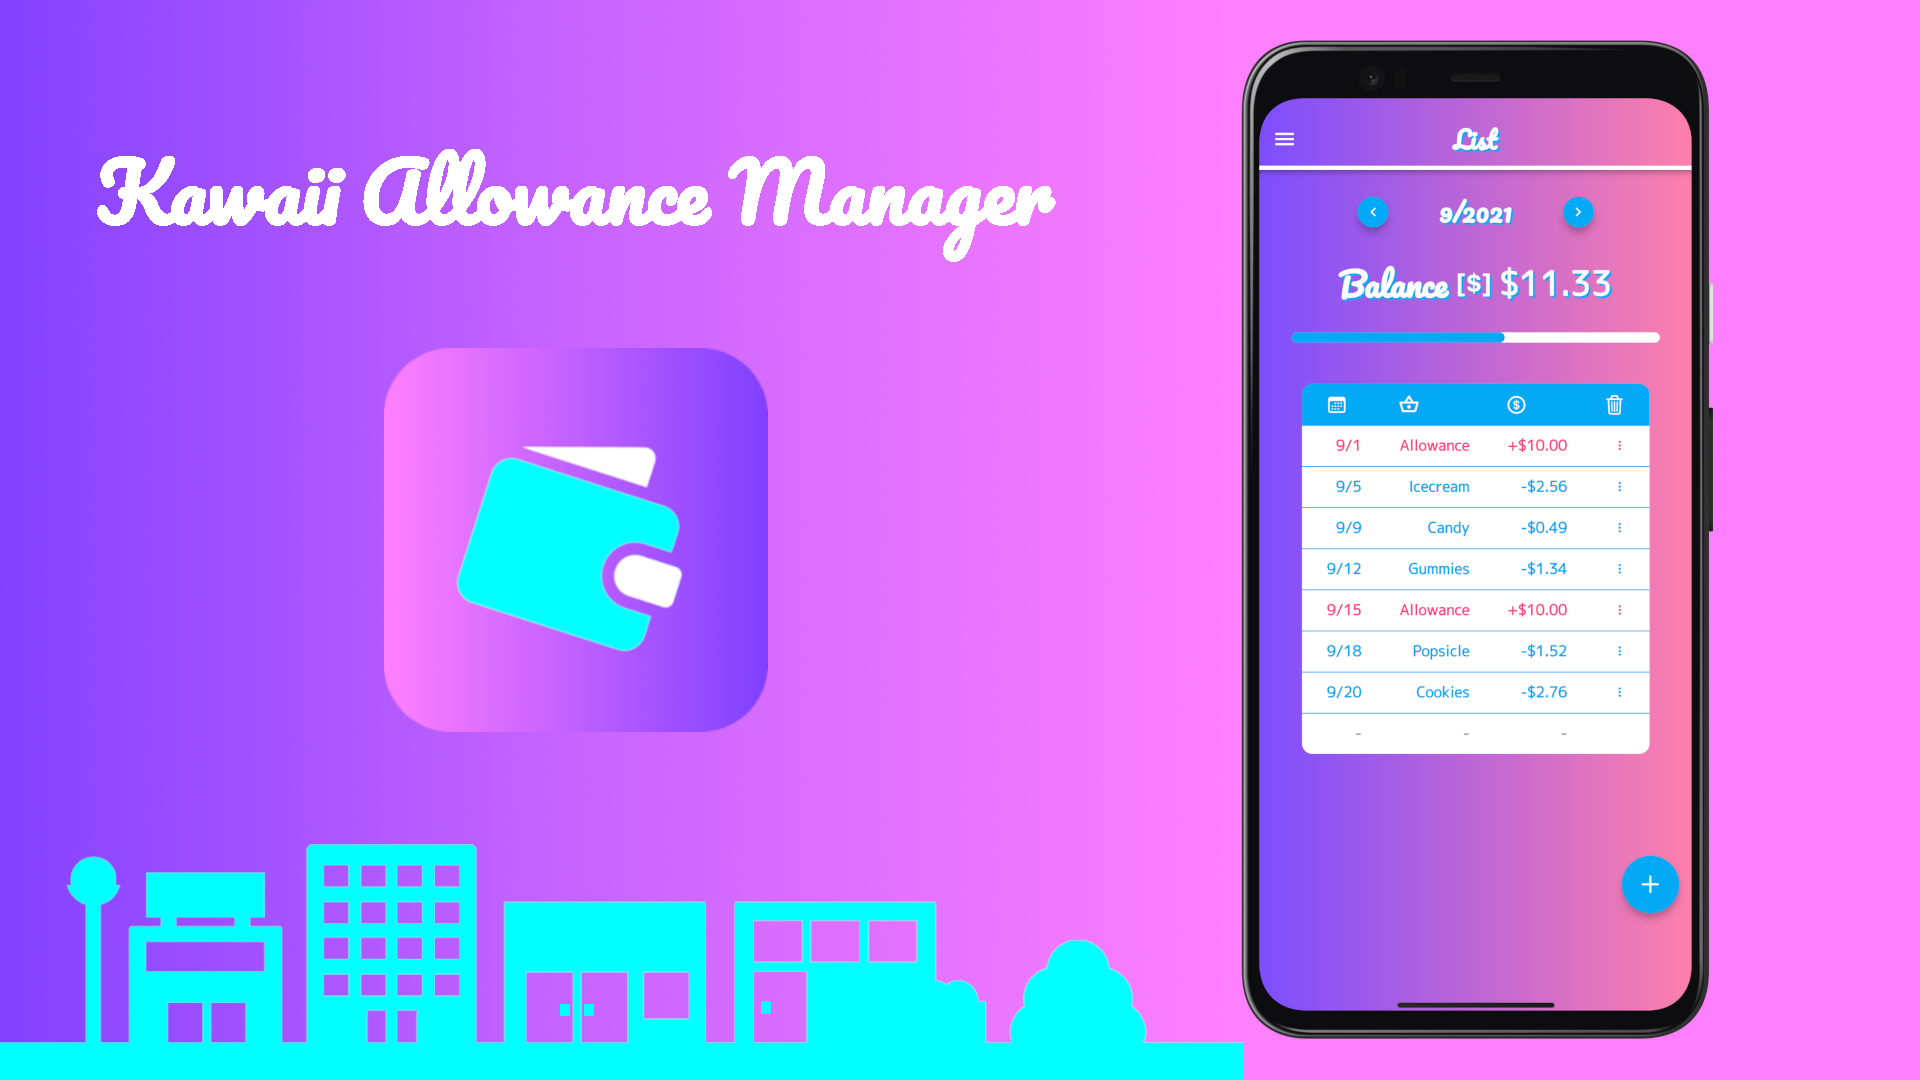
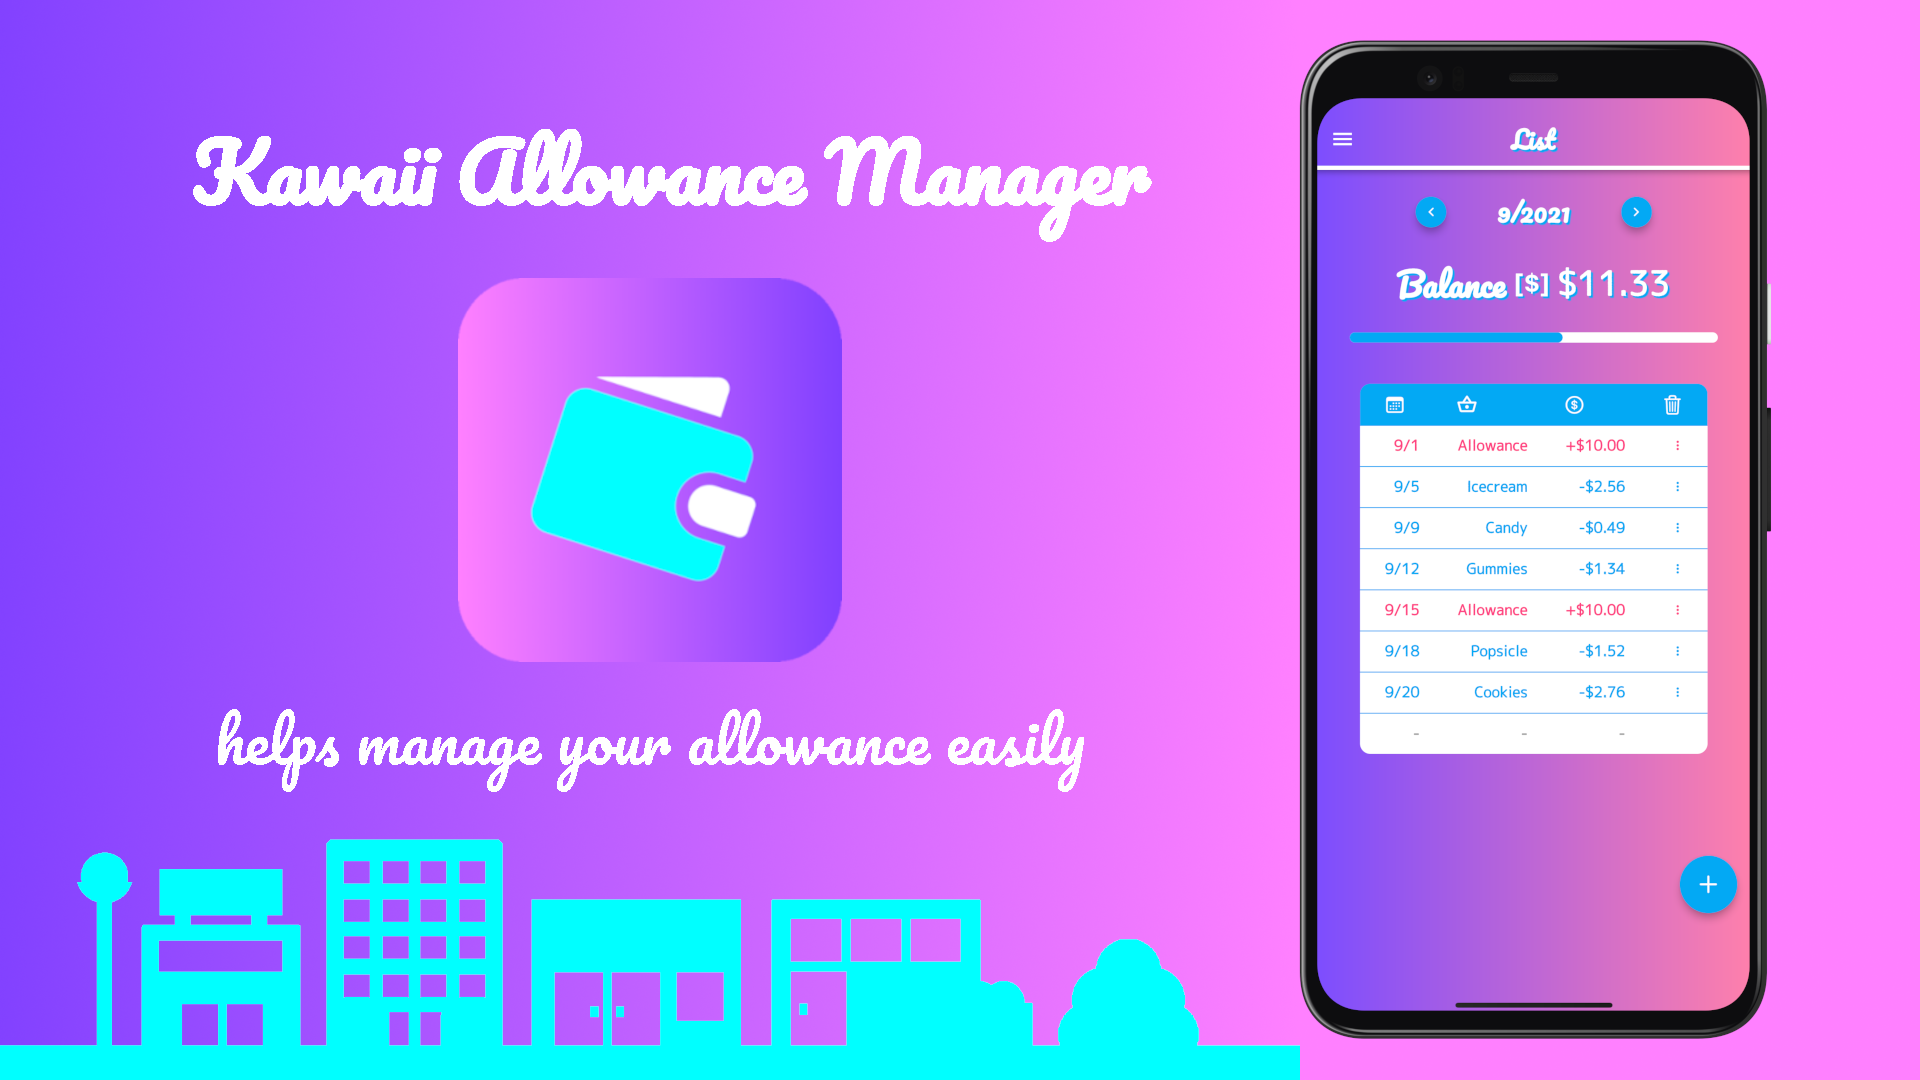
220129Commit

diff --git a/public/ja/css/allowancestyles.css b/public/ja/css/allowancestyles.css
@@ -2,7 +2,7 @@ body{
   margin: 0;
   font-family: 'Pacifico', 'RiiPopkkR';
   text-align: center;
-  background-color: #00ffff;
+  background-color: #2d2926;
   color: white;
 }
 
@@ -93,6 +93,7 @@ span {
 }
 
 .overlay a{
+  font-family: "Helvetica Neue", "Helvetica", "Hiragino Sans", "Hiragino Kaku Gothic ProN", "Arial", "Yu Gothic", "Meiryo", sans-serif, 'Pacifico', 'RiiPopkkR';
   font-size: 16px;
   color: white;
 }
@@ -108,8 +109,8 @@ span {
 }
 
 .top p {
-  padding: 20px 0px 20px 0px;
-  font-size: 24px;
+  padding-top: 80px;
+  font-size: 28px;
   font-weight: bold;
 }
 
@@ -136,15 +137,9 @@ span {
 }
 
 .topappicon {
-  padding: 10px 0px 30px 0px;
-  width: 120px;
+  padding: 10px 0px 20px 0px;
+  width: 150px;
   height: auto;
-}
-
-.toptitleimage{
-  padding-top: 80px;
-  height: 50px;
-  width: auto;
 }
 
 .topbackground {
@@ -188,6 +183,7 @@ span {
 footer {
   color: white;
   font-size: 14px;
+  font-family: "Helvetica Neue", "Helvetica", "Hiragino Sans", "Hiragino Kaku Gothic ProN", "Arial", "Yu Gothic", "Meiryo", sans-serif, 'Pacifico', 'RiiPopkkR';
   background-color: #2d2926;
   padding: 10px 0px 10px 0px;
 }
@@ -234,7 +230,7 @@ footer a:visited{
   }
 }
 
-@media screen and (min-width:520px){
+@media screen and (min-width:550px){
   .topscreenshotimage{
     width: 250px;
     height: auto;
@@ -243,38 +239,57 @@ footer a:visited{
   header h1{
     font-size: 32px;
   }
-}
 
-@media screen and (min-width: 600px){
   .featuresscreenshot{
-    width: 240px;
-    height: auto;
-    margin: 10px 15px 20px 15px;
-  }
+    width: 200px;
+    margin: 10px 20px 10px 20px;
+  } 
 }
 
 @media screen and (min-width: 700px){
   .featuresscreenshot{
-    margin: 10px 35px 20px 35px;
+    width: 250px;
+  } 
+
+  .top p {
+    font-size: 32px;
+  }
+
+  .top li {
+    font-size: 24px;
   }
 }
 
-@media screen and (min-width:1000px){
+
+@media screen and (min-width:1100px){
   .topcontainer {
     float: left;
-    width: 50%;
-    padding: 20px 0px 0px 0px;
+    width: 55%;
+    padding: 20px 0px 0px 50px;
   }
   
   .topscreenshotimage {
     padding: 100px 0px 0px 0px;
   }
 
-  .container {
-    padding-bottom: 10px;
-  }
-
   .topbackground {
     height: 200px;
   }
+
+  .featurescontainer {
+    float: left;
+    width: 50%;
+    height: auto;
+  }
+
+  .featuresscreenshot{
+    width: 200px;
+  }
 }
+
+@media screen and (min-width: 1250px){
+  .featuresscreenshot{
+    width: 250px;
+  } 
+}
+

diff --git a/public/allowance.html b/public/allowance.html
@@ -132,12 +132,12 @@
   <section class="top">
     <div class="topcontainer">
       <nav class="container">
-        <img class="toptitleimage" src="ja/img/allowance/apptitle_en.png">
+        <p class="toptitle">Kawaii allowance manager</p>
       </nav>
       <img class="topappicon" src="ja/img/allowance/appicon.png">
       <nav class="container">
         <li>helps manage</li>
-        <li>your allowance easily </li>
+        <li>your allowance easily</li>
       </nav>
       <nav class="badgecontainer">
         <a href="https://apps.apple.com/app/id1582751693#?platform=iphone" 

diff --git a/public/ja/css/elevatorstyles.css b/public/ja/css/elevatorstyles.css
@@ -2,7 +2,7 @@ body{
   margin: 0;
   font-family: "Helvetica Neue", "Helvetica", "Hiragino Sans", "Hiragino Kaku Gothic ProN", "Arial", "Yu Gothic", "Meiryo", sans-serif;
   text-align: center;
-  background-color: white;
+  background-color: #383635;
   color: #383635;
 }
 
@@ -103,6 +103,7 @@ span {
 }
 
 .top {
+  background-color: white;
   font-size: 18px;
 }
 
@@ -248,7 +249,7 @@ h3{
 @media screen and (min-width: 600px){
   .bignewsscreenshot,
   .featuresscreenshot{
-      width: 240px;
+    width: 240px;
     height: auto;
     margin: 10px 15px 20px 15px;
   }

diff --git a/public/ja/css/toiletstyles.css b/public/ja/css/toiletstyles.css
@@ -2,7 +2,7 @@ body{
   margin: 0;
   font-family: "Helvetica Neue", "Helvetica", "Hiragino Sans", "Hiragino Kaku Gothic ProN", "Arial", "Yu Gothic", "Meiryo", sans-serif;
   text-align: center;
-  background-color: white;
+  background-color: #383635;
   color: #383635;
 }
 
@@ -242,7 +242,7 @@ h3{
 
 @media screen and (min-width: 600px){
   .featuresscreenshot{
-      width: 240px;
+    width: 240px;
     height: auto;
     margin: 10px 15px 20px 15px;
   }

diff --git a/public/ja/allowance.html b/public/ja/allowance.html
@@ -144,7 +144,7 @@
   <section class="top">
     <div class="topcontainer">
       <nav class="container">
-        <img class="toptitleimage" src="img/allowance/apptitle_ja.png">
+        <p class="toptitle">かわいいおこづかい帳</p>
       </nav>
       <img class="topappicon" src="img/allowance/appicon.png">
       <nav class="container">

diff --git a/public/ja/css/mainstyles.css b/public/ja/css/mainstyles.css
@@ -2,7 +2,7 @@ body{
   margin: 0;
   font-family: "Helvetica Neue", Arial, "Hiragino Kaku Gothic ProN", "Hiragino Sans", "Meiryo", sans-serif;
   text-align: center;
-  background-color: white;
+  background-color: #2d2926;
   color: #2d2926;
 }
 
@@ -77,6 +77,7 @@ header h1{
 }
 
 .top {
+  background-color: white;
   padding-top: 75px;
 }
 
